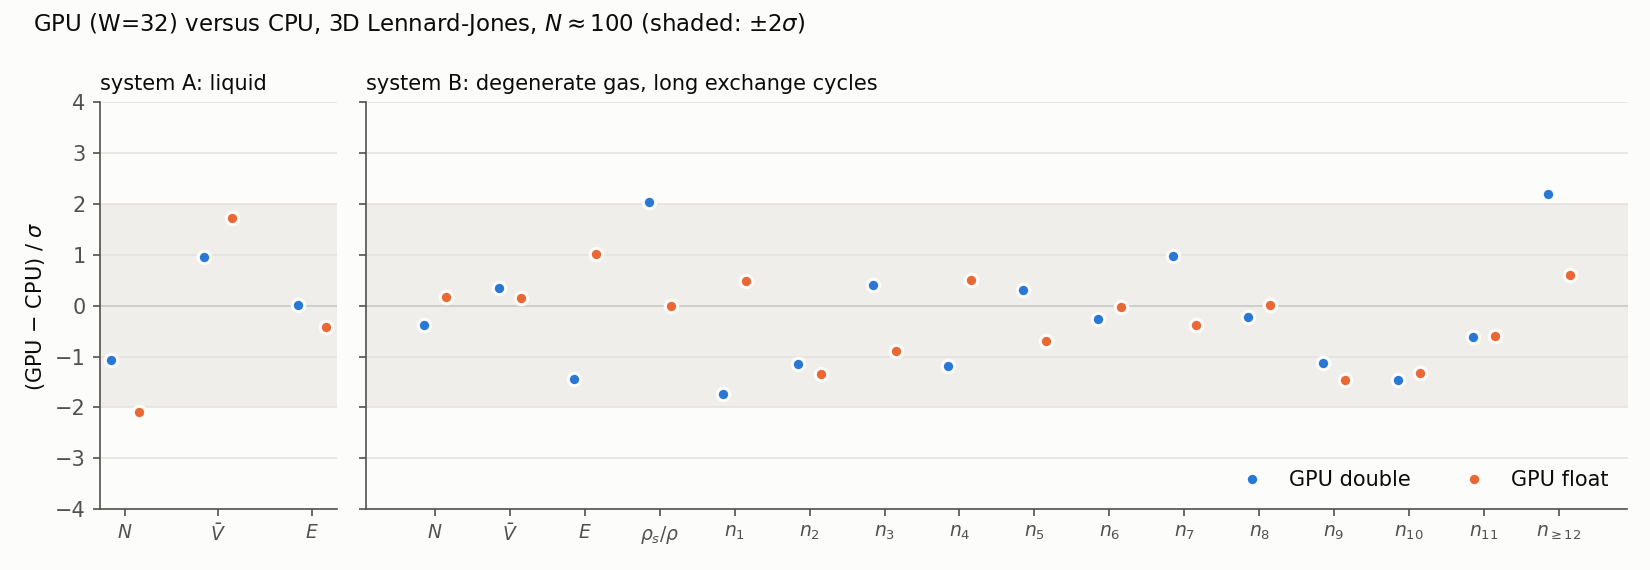
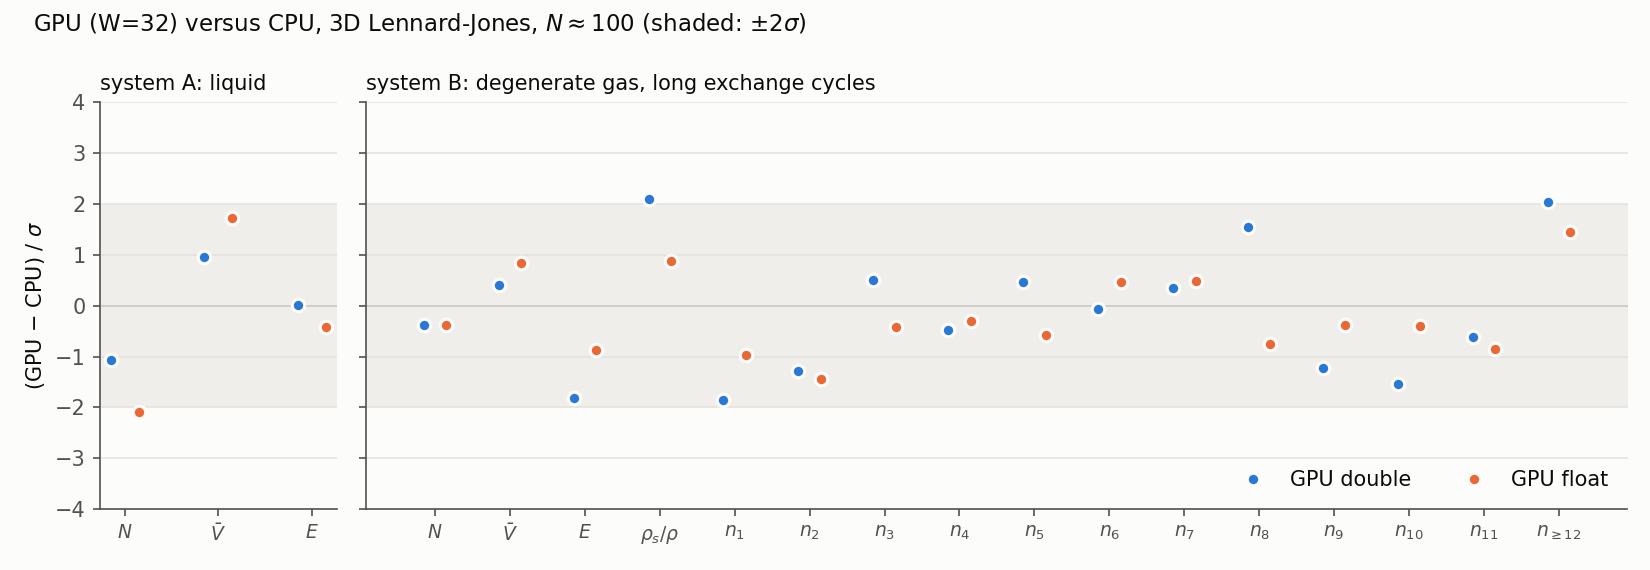
docs: second 3D Trotter scan and extra GPU seeds of LJ system B
The second 3D Trotter scan matches the exact PA (N: chi2 5.3/9) and
extrapolates within 1.6 sigma; combined with the first, the fixed-P test
passes (p=0.30) and N(tau->0) is -2.1 sigma, which is not a fit bias.
The two extra double/float seeds of system B do not reproduce the
+2.3 sigma rho_s of the first double run; all eight GPU runs agree with
the 56-seed CPU reference within 1.9 sigma.

Claude-Session: https://claude.ai/code/session_01UqPo7pTDQ3R7jfmiv2U5ae

diff --git a/docs/worm_pimc.md b/docs/worm_pimc.md
@@ -564,14 +564,17 @@ This test checks the discretisation itself. The setup is the trap with harmonic 
 | 1 | 0.5 | 3·10⁻³ | 12.0/9 (0.21) | −2.6σ (n₅, P=4) | 1.63239(32) / 1.63284 | 1.12858(30) / 1.12874 |
 | 2 | 1.5 | 3·10⁻⁴ | 12.0/9 (0.22) | +2.2σ (V̄, P=8) | 2.76198(45) / 2.76133 | 3.92677(77) / 3.92561 |
 | 3 | 2.0 | 10⁻⁴ | 17.6/9 (0.04) | +2.4σ (n₂, P=8) | 2.00425(34) / 2.00506 | 4.10473(84) / 4.10512 |
+| 3 (run 2) | 2.0 | 10⁻⁴ | 5.3/9 (0.81) | −3.7σ (n₅, P=12) | 2.00485(33) / 2.00506 | 4.10385(79) / 4.10512 |
 
 The τ→0 columns come from a weighted fit $a + b\tau^2$ to the points with $\tau \le 1/6$ ($P \ge 12$).
 
 ![Trotter scan](figures/val_trotter.png)
 
-- **The PA is resolved exactly.** At $P=4$ the Trotter error of $\langle N\rangle$ is 0.07–0.18, i.e. several hundred standard errors, and the Monte Carlo still agrees with the PA at the same $P$. Across all $P$ and observables (243 numbers) no deviation exceeds 2.6σ.
+- **The PA is resolved exactly.** At $P=4$ the Trotter error of $\langle N\rangle$ is 0.07–0.18, i.e. several hundred standard errors, and the Monte Carlo still agrees with the PA at the same $P$. Across all $P$ and observables of the first three scans (243 numbers) no deviation exceeds 2.6σ. The second 3D scan adds 81 numbers, one of them at −3.7σ ($n_5$ at $P=12$); the others are within 2.4σ.
 - **The τ² law and the continuum limit.** The extrapolations agree with the exact continuum within 1.6σ, except $\langle N\rangle$ in 3D (−2.3σ).
-- **The 3D case.** The 3D scan has p = 0.04 for N, and its extrapolated N is 2.3σ low. Both are borderline. A second independent 3D scan (`TAG=_run2 SEEDOFF=1000`) has been prepared to decide whether this is a fluctuation; it has not been run yet.
+- **The 3D case.** The first 3D scan has p = 0.04 for N, and its extrapolated N is 2.3σ low. A second independent scan (`TAG=_run2 SEEDOFF=1000`) does not repeat this: N matches the exact PA with χ² = 5.3/9 (p = 0.81), and the extrapolations are −0.6σ (N), −1.3σ (V̄) and −1.6σ (E).
+- **Both 3D scans combined** (inverse-variance mean at each $P$). N against the exact PA gives χ² = 10.7/9 (p = 0.30). The extrapolations are N = 2.00457(24) (−2.1σ), V̄ = 2.05208(24) (−2.0σ) and E = 4.10428(58) (−1.4σ).
+- **The fit itself is not biased.** The same fit applied to the exact PA values returns the continuum to $2	imes10^{-6}$ (below 0.01σ). The strict test at fixed $P$ passes. The remaining −2σ of the extrapolated N and V̄ (two correlated quantities) is therefore read as a fluctuation: the extrapolation amplifies the errors of the $P = 12$–16 points.
 
 ### 9.4 Exchange cycles of the ideal gas (`validation/cycles_ideal.sh`)
 
@@ -617,24 +620,26 @@ No exact result exists for an interacting many-body system, so here the GPU code
 - **GPU runs.** `W=32`, 512 replicas × $10^7$ steps after $10^7$ thermalisation steps, in double and in float, each from $N_0=100$ and from $N_0=64$.
 - **Equilibration check.** The two starts agree in every column (`analyze.py lj100` prints them separately).
 
-The table combines the two starts of each precision (inverse-variance mean).
+The table combines all runs of each precision (inverse-variance mean). For A these are the two starts. For B they are four runs: the two starts plus two extra seeds from $N_0=100$ (`TAG=_s1`, `_s2`).
 
 | | A: CPU | A: GPU double | A: GPU float | B: CPU | B: GPU double | B: GPU float |
 |---|---|---|---|---|---|---|
-| N | 101.433(13) | 101.413(13) | 101.394(13) | 90.590(11) | 90.583(14) | 90.593(13) |
-| V̄ | −353.827(91) | −353.701(95) | −353.600(95) | −47.188(12) | −47.181(16) | −47.185(15) |
-| E | −45.583(77) | −45.583(67) | −45.627(72) | 140.721(92) | 140.538(88) | 140.850(87) |
-| ρs/ρ | 0 | 0 | 0 | 0.41232(85) | 0.41471(80) | 0.41231(71) |
-| n₁ | = N | = N | = N | 63.766(26) | 63.706(23) | 63.783(24) |
-| n₂ | 0 | 0 | 0 | 3.8507(73) | 3.8397(62) | 3.8373(68) |
-| n₍≥12₎ | 0 | 0 | 0 | 12.901(31) | 12.987(24) | 12.927(29) |
+| N | 101.433(13) | 101.413(13) | 101.394(13) | 90.590(11) | 90.585(11) | 90.5846(98) |
+| V̄ | −353.827(91) | −353.701(95) | −353.600(95) | −47.188(12) | −47.181(12) | −47.174(11) |
+| E | −45.583(77) | −45.583(67) | −45.627(72) | 140.721(92) | 140.522(59) | 140.625(60) |
+| ρs/ρ | 0 | 0 | 0 | 0.41232(85) | 0.41451(61) | 0.41323(58) |
+| n₁ | = N | = N | = N | 63.766(26) | 63.709(18) | 63.735(19) |
+| n₂ | 0 | 0 | 0 | 3.8507(73) | 3.8395(46) | 3.8381(48) |
+| n₍≥12₎ | 0 | 0 | 0 | 12.901(31) | 12.976(19) | 12.956(21) |
 
 ![GPU versus CPU at N ≈ 100](figures/val_lj100.png)
 
 - **System A** is a dense liquid at $\lambda = 0.05$ with no exchange. All numbers agree within 2.1σ (float N). Note that V̄ is shifted by +1.0σ (double) and +1.7σ (float), in the same direction in both precisions.
-- **System B, float.** All 16 numbers agree with the CPU: χ²/dof = 1.1/4 for N, V̄, E, ρs and 8.3/12 for the cycle bins.
-- **System B, double.** χ²/dof is 6.5/4 for N, V̄, E, ρs and 15.7/12 for the cycle bins. The largest deviations are ρs/ρ (+2.0σ) and $n_{\ge12}$ (+2.2σ). Both come from the $N_0=100$ run (+2.3σ and +2.6σ); the $N_0=64$ run agrees (χ² = 2.4/4).
-- **What this means.** Long cycles and the winding are the slowest observables, so an under-thermalised run or a statistical fluctuation are the most likely explanations. Float, which uses the same code path, agrees. Two more independent double and float runs of B (`TAG=_s1`, `_s2`) have been prepared to settle it.
+- **System B, first two starts.** Float agreed with the CPU in all 16 numbers. Double had χ²/dof = 6.5/4 for N, V̄, E, ρs, with ρs/ρ at +2.0σ and $n_{\ge12}$ at +2.2σ, both coming from the $N_0=100$ run (+2.3σ and +2.6σ).
+- **The extra seeds do not reproduce it.** The two new double runs give ρs/ρ = 0.4138(14) and 0.4146(12) (+0.9σ and +1.5σ), with χ² = 5.0/4 and 5.3/4 for N, V̄, E, ρs. The largest single deviation now sits in a *float* run (`_s2`: ρs/ρ +2.7σ, $n_{\ge12}$ +2.5σ). The outlier moves between runs and precisions, as a fluctuation does.
+- **All four runs of each precision against the CPU.** Float: χ²/dof = 2.4/4 (N, V̄, E, ρs) and 7.8/12 (cycle bins). Double: 8.0/4 (p = 0.09) and 16.7/12, largest ρs/ρ +2.1σ and $n_{\ge12}$ +2.0σ.
+- **All eight GPU runs together.** They are consistent with each other: χ²/7 = 5.2 (N), 4.6 (V̄), 13.3 (ρs, p = 0.07), 15.8 (E, p = 0.03). Against the CPU: N −0.4σ, V̄ +0.7σ, E −1.5σ, ρs/ρ +1.6σ, $n_1$ −1.6σ, $n_{\ge12}$ +1.9σ. The last three move together: more particles in long cycles means fewer in $n_1$ and a larger winding. So they are one fluctuation of the slow sector, at the 0.4% level in ρs.
+- **Conclusion.** There is no evidence of a GPU bias, in either precision. The scatter of E between GPU runs (p = 0.03) hints that the per-run error bars may be slightly small. This is left for the error-bar calibration.
 
 ### 9.6 Ideal gas in a disorder potential, 1D (`validation/disorder.sh`)
 

diff --git a/README.md b/README.md
@@ -138,10 +138,10 @@ The scripts are `validate_gpu.sh`, `validate_pbc.sh`, `ref_lj_cpu.sh`, `lj_gpu.s
 | Vbar | −51.742(47) | −51.710(26) | −51.724(33) |
 | E | 2.951(58) | 2.973(27) | 2.953(21) |
 
-- **Trotter scan** (`validation/trotter.sh`, trap with κ=0.3, β=2, P=4…64, d=1,2,3). The MC matches the exact PA at every P, even where the Trotter error is hundreds of σ; no deviation exceeds 2.6σ in 243 numbers. The τ² extrapolation reaches the exact continuum within 1.6σ, except N in 3D (−2.3σ; a second 3D scan is pending).
+- **Trotter scan** (`validation/trotter.sh`, trap with κ=0.3, β=2, P=4…64, d=1,2,3). The MC matches the exact PA at every P, even where the Trotter error is hundreds of σ; no deviation exceeds 2.6σ in 243 numbers. The τ² extrapolation reaches the exact continuum within 1.6σ, except N in 3D (−2.3σ). A second 3D scan agrees (N vs exact PA: p = 0.81; τ→0 within 1.6σ). Both 3D scans combined are −2.1σ in N, while the fixed-P test still passes (p = 0.30).
 - **Exchange cycles** (`validation/cycles_ideal.sh`). The full distribution ⟨n_j⟩ of the ideal gas matches the exact cycle expansion in 1D/2D/3D, including a case near condensation, in double and float: χ²/dof between 10.9/15 and 19.0/15.
 - **Disorder** (`validation/disorder.sh`). The 1D ideal gas in three disorder realisations, from ρs/ρ = 0.18 down to 3·10⁻⁶, matches `exact_disorder.py` on the CPU and on the GPU in double and float. This covers N, V̄, E, ρs, ⟨δN²⟩, K and the cycles; the GPU reproduces K to 0.2%. With `Vd=0` the output is bit-identical to the code without disorder.
-- **N ≈ 100** (`validation/lj100_*.sh`). The GPU (W=32) agrees with a 56-seed CPU reference for a dense LJ liquid and for a degenerate LJ gas with ρs/ρ ≈ 0.41 and long exchange cycles: N, V̄, E, ρs and 12 cycle bins. One double-precision run of the gas is 2.0–2.6σ off in ρs and the longest cycles; extra seeds are pending.
+- **N ≈ 100** (`validation/lj100_*.sh`). The GPU (W=32) agrees with a 56-seed CPU reference for a dense LJ liquid and for a degenerate LJ gas with ρs/ρ ≈ 0.41 and long exchange cycles: N, V̄, E, ρs and 12 cycle bins. One early double run of the gas was 2.3–2.6σ off in ρs and the longest cycles. Two extra seeds per precision do not reproduce this, and the eight GPU runs combined are within 1.9σ of the CPU.
 
 ### Performance
 Benchmark: 3D LJ at ρσ³ = 0.7, T = 1, P = 32, thermalised production, total MC steps/s (`bench_N2.sh`, `bench_cpu_N.sh`):
